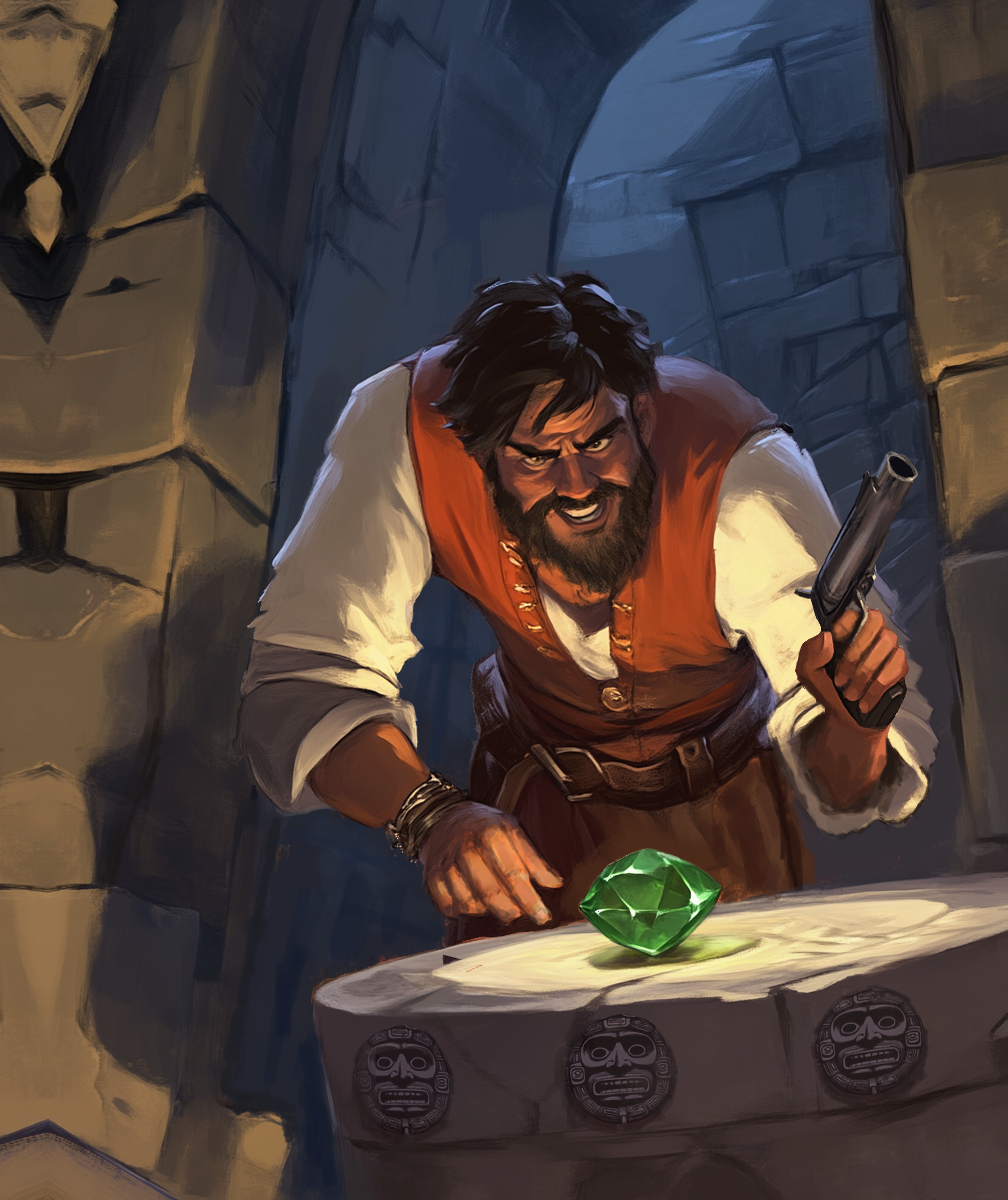
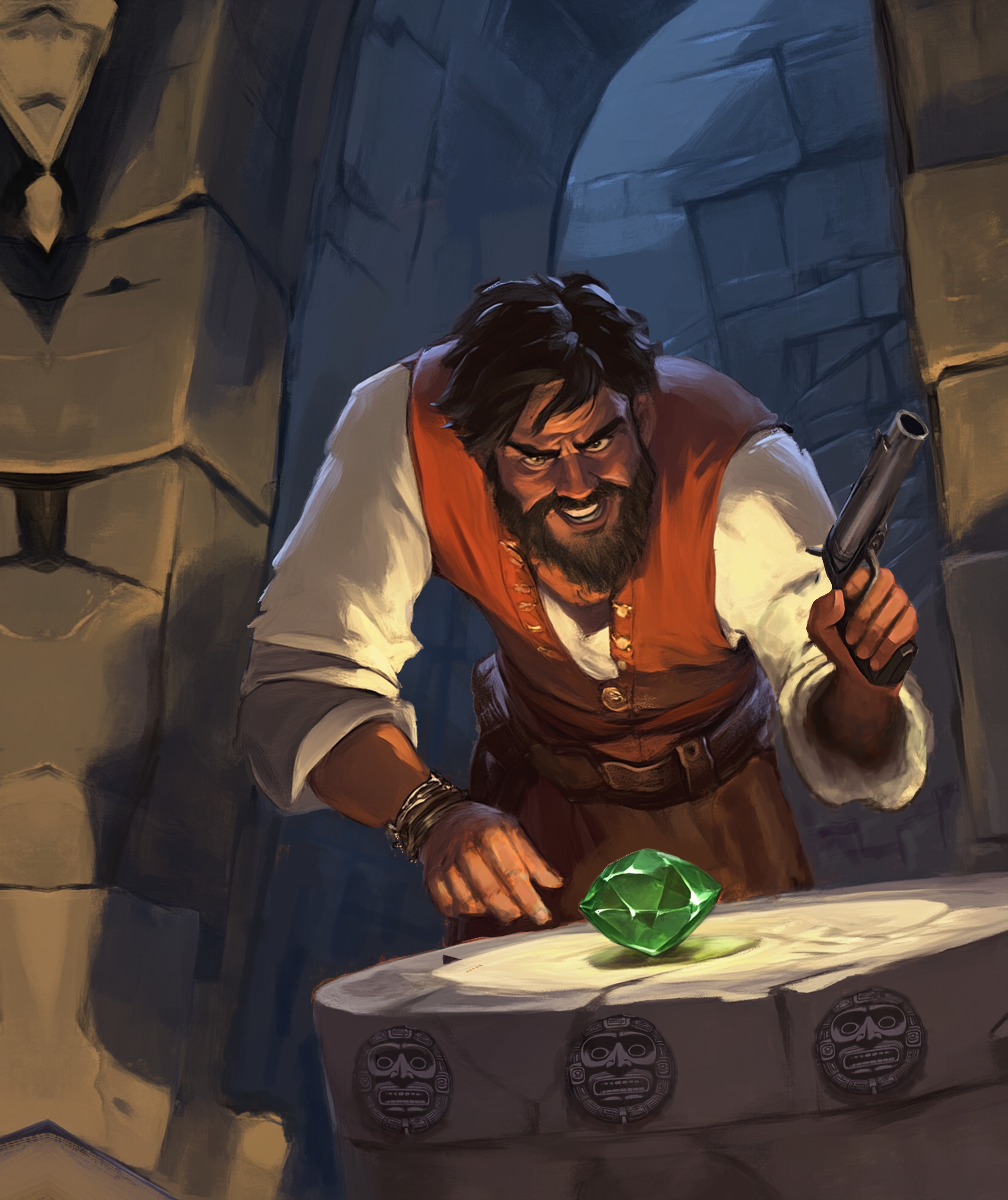
Improve illustrations

diff --git a/deckhand2/cards.en.js b/deckhand2/cards.en.js
@@ -922,7 +922,7 @@ var cards = [
         "banners": ['gun-banner', 'parrot-banner'],
         "production": ['g'],
         "block": true,
-        "css": "bg-60 title-medium left-sign",
+        "css": "bg-65 title-medium left-sign",
     },
 
     {

diff --git a/deckhand2/2.css b/deckhand2/2.css
@@ -94,6 +94,14 @@ img {
     margin-top: 60px;  
 }
 
+.card.bg-65 .bg {
+    margin-top: 65px;  
+}
+
+.card.bg-70 .bg {
+    margin-top: 70px;  
+}
+
 .card .bg img {
     width: 100%;
 }
